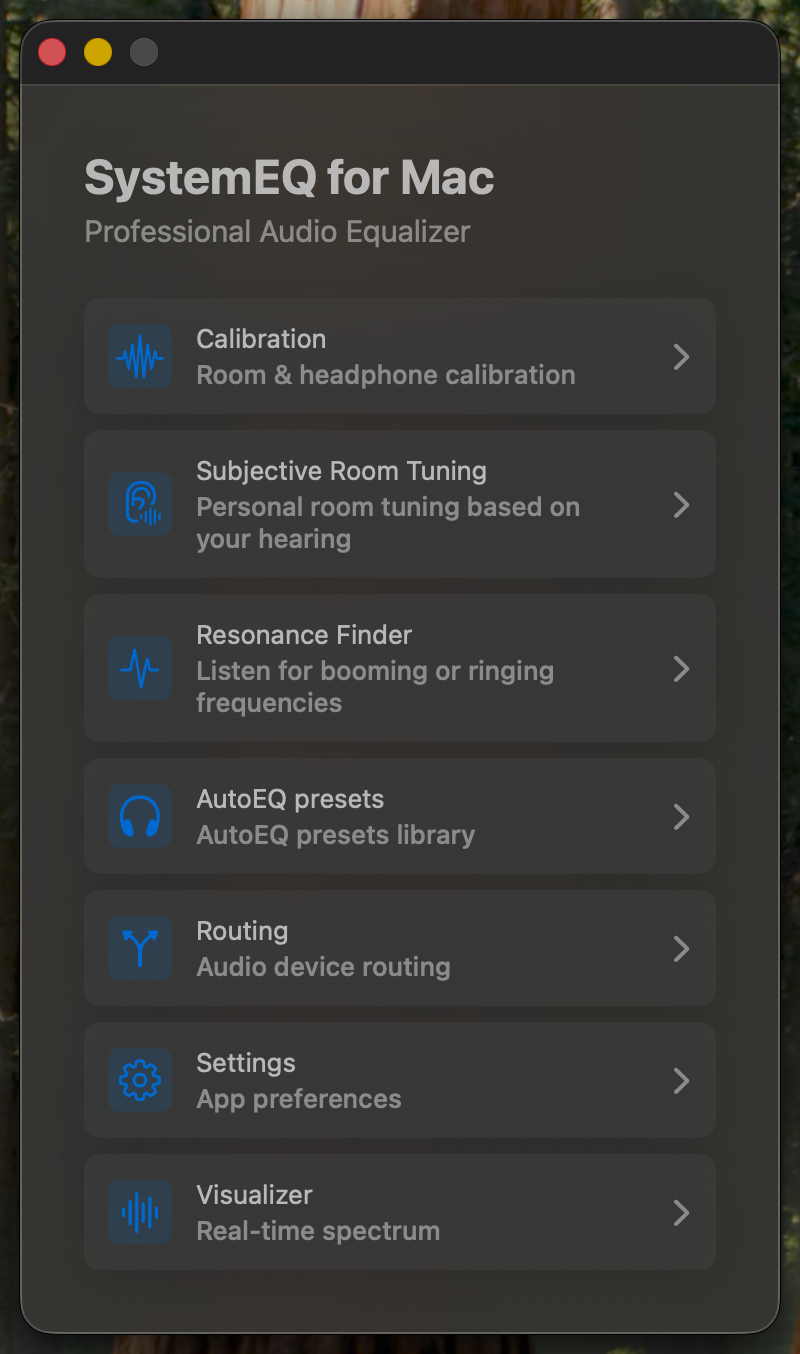
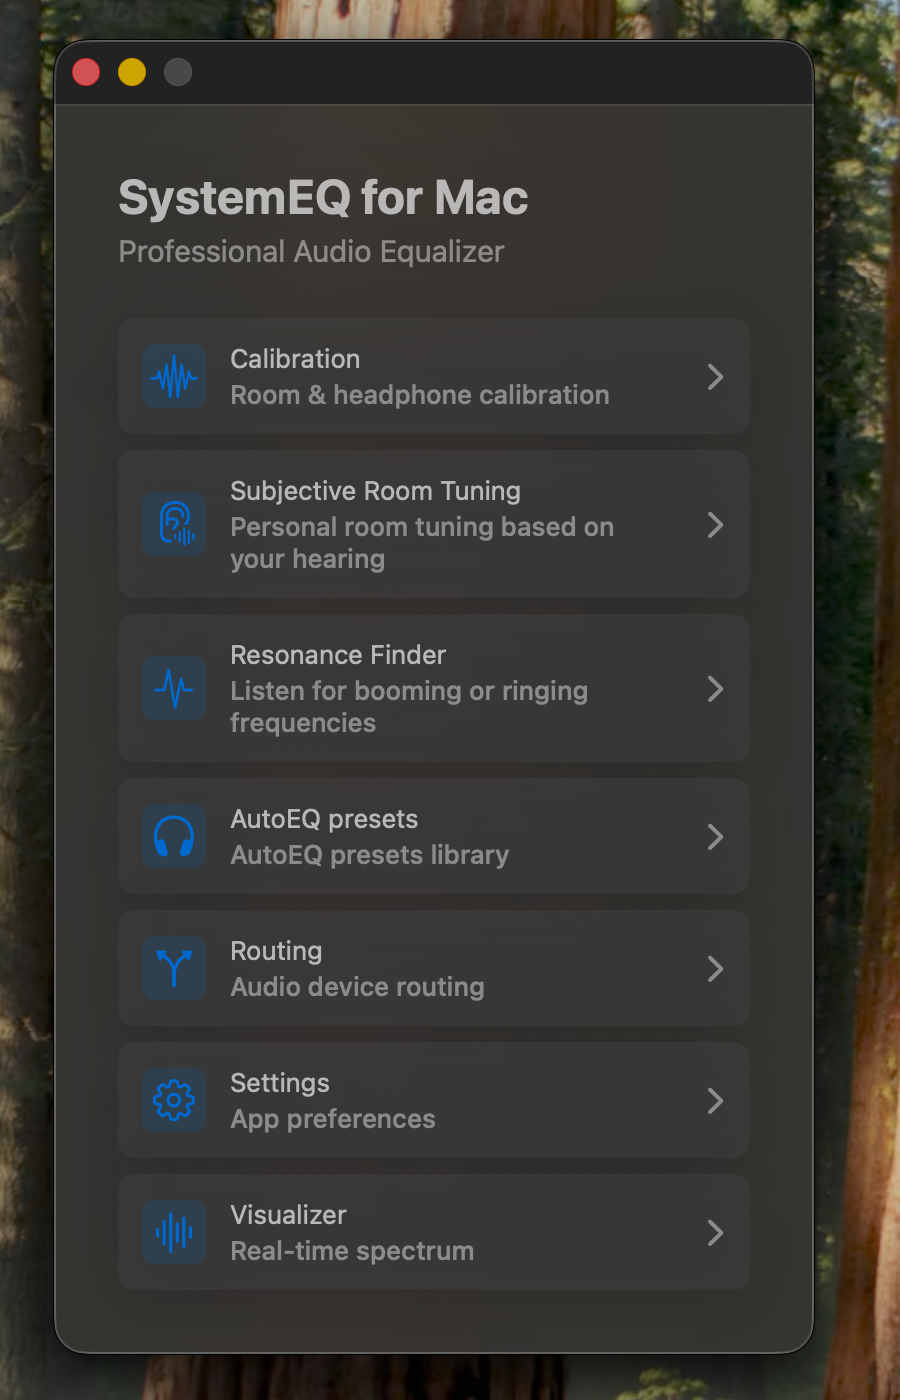
docs: highlight glass interface

diff --git a/index.html b/index.html
@@ -1067,7 +1067,7 @@
     </div>
     <div class="hero-preview reveal reveal-delay-3">
       <div class="parallax" data-speed="0.08">
-        <img src="screenshots/01-main.png" alt="SystemEQ for Mac main menu" width="1000" height="1800" fetchpriority="high" decoding="async" />
+        <img src="screenshots/01-main.png" alt="SystemEQ for Mac main menu" width="900" height="1400" fetchpriority="high" decoding="async" />
       </div>
     </div>
   </div>
